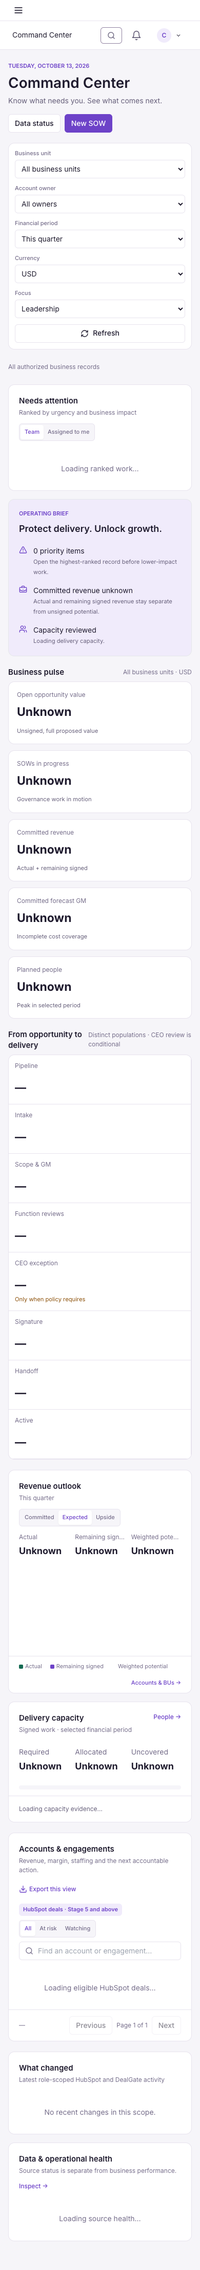
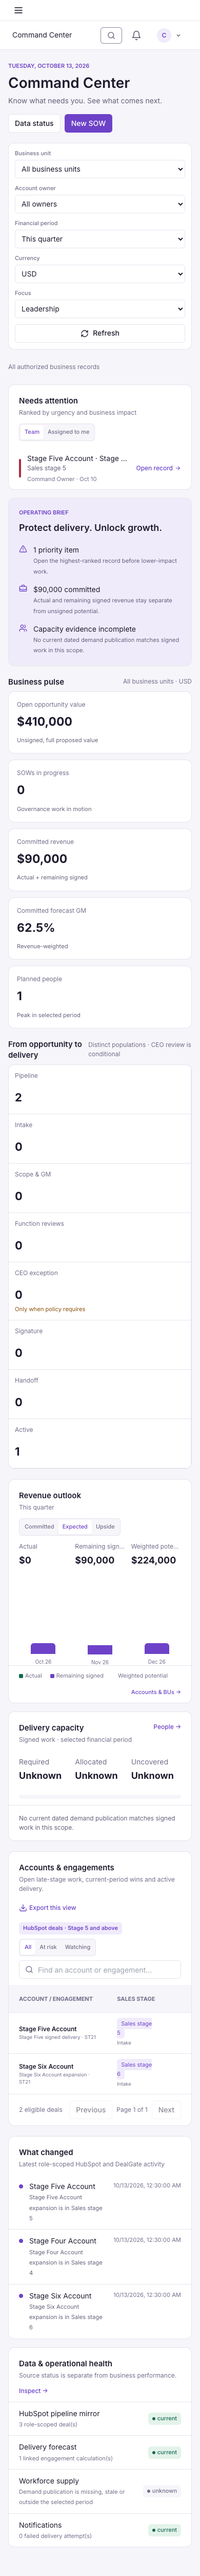
fix(command-center): exclude stale closed wins

diff --git a/web/src/pages/v2/CommandCenter.tsx b/web/src/pages/v2/CommandCenter.tsx
@@ -109,7 +109,7 @@ export function CommandCenterPage() {
     <div className="grid gap-4 xl:grid-cols-[minmax(0,1.55fr)_minmax(280px,1fr)]"><section className={panel} aria-labelledby="revenue-title"><PanelHeader id="revenue-title" title="Revenue outlook" note={period === "this_quarter" ? "This quarter" : "Next two quarters"} action={<Segment options={[["committed", "Committed"], ["expected", "Expected"], ["upside", "Upside"]]} value={scenario} onChange={(value) => setScenario(value as typeof scenario)} />}/><div className="grid grid-cols-3 gap-3 px-5 pb-4 text-secondary"><Summary label="Actual" value={money(overview?.revenue.actual ?? null, currency)} /><Summary label="Remaining signed" value={money(overview?.revenue.remaining_signed ?? null, currency)} /><Summary label={scenario === "upside" ? "Full potential" : "Weighted potential"} value={scenario === "committed" ? "Excluded" : money(scenario === "expected" ? overview?.revenue.potential_expected ?? null : overview?.revenue.potential_upside ?? null, currency)} /></div><div className="flex h-44 items-end gap-4 border-b border-divider px-5" role="img" aria-label="Revenue outlook by month">{(overview?.revenue.months ?? []).map((row) => { const actual = Number(row.actual), signed = Number(row.remaining_signed), potential = scenario === "committed" ? 0 : Number(scenario === "expected" ? row.potential_expected : row.potential_upside), total = actual + signed + potential; return <div key={row.month} className="flex h-full min-w-0 flex-1 flex-col justify-end"><div className="mx-auto flex w-full max-w-12 flex-col-reverse overflow-hidden rounded-t-control" style={{ height: `${Math.max(2, (total / maximumRevenue) * 100)}%` }}><span className="bg-success" style={{ height: `${(actual / Math.max(1, total)) * 100}%` }} /><span className="bg-primary" style={{ height: `${(signed / Math.max(1, total)) * 100}%` }} /><span className="bg-warning/70" style={{ height: `${(potential / Math.max(1, total)) * 100}%` }} /></div><span className="mt-2 truncate text-center text-[10px] text-text-muted">{monthLabel(row.month)}</span></div>; })}</div><div className="flex flex-wrap gap-4 px-5 py-3 text-[11px] text-text-muted"><Legend color="bg-success" label="Actual" /><Legend color="bg-primary" label="Remaining signed" /><Legend color="bg-warning/70" label={scenario === "upside" ? "Full potential" : "Weighted potential"} /><Link className="ml-auto font-medium text-primary" to="/forecast">Accounts & BUs →</Link></div></section>
       <CapacityPanel capacity={overview?.capacity ?? null} /></div>
 
-    <section className={panel} aria-labelledby="accounts-title"><PanelHeader id="accounts-title" title="Accounts & engagements" note="Revenue, margin, staffing and the next accountable action." action={<button className="inline-flex min-h-8 items-center gap-1 text-secondary font-medium text-primary" onClick={() => void downloadCommandAccounts(scope, search || undefined, health)}><Download className="h-4 w-4" /> Export this view</button>} /><div className="flex flex-wrap items-center gap-2 px-5 pb-3"><span className="rounded-control bg-primary-subtle px-2 py-1 text-[11px] font-semibold text-primary" data-testid="stage5-scope">HubSpot deals · Stage 5 and above</span><Segment options={[["all", "All"], ["at_risk", "At risk"], ["watching", "Watching"]]} value={health} onChange={(value) => setParam("health", value)} /><label className="relative min-w-56 flex-1"><Search className="pointer-events-none absolute left-3 top-2.5 h-4 w-4 text-text-muted" /><span className="sr-only">Find an account or engagement</span><input className="h-9 w-full rounded-control border border-border bg-surface pl-9 pr-3 text-body focus-visible:outline-focus" type="search" value={search} onChange={(event) => setParam("search", event.target.value)} placeholder="Find an account or engagement…" /></label></div>{accounts?.configuration_gaps.length ? <div className="mx-5 mb-3 rounded-control border border-warning/30 bg-warning-surface px-3 py-2 text-secondary text-warning">{accounts.configuration_gaps.join(" · ")}</div> : null}{accountsLoading ? <SectionState text="Loading eligible HubSpot deals…" /> : accountsError ? <SectionState text={`Could not load accounts: ${accountsError}`} /> : !accounts?.items.length ? <SectionState text="No Stage 5 or later HubSpot deals match these filters." /> : <AccountsTable rows={accounts.items} currency={currency} onSelect={setSelected} />}<div className="flex items-center justify-between border-t border-divider px-5 py-3 text-secondary text-text-muted"><span>{accounts ? `${accounts.total} eligible deal${accounts.total === 1 ? "" : "s"}` : "—"}</span><div className="flex items-center gap-2"><button className={button} disabled={pageNumber <= 1} onClick={() => setParam("page", String(pageNumber - 1))}>Previous</button><span>Page {pageNumber} of {Math.max(1, Math.ceil((accounts?.total ?? 0) / 25))}</span><button className={button} disabled={!accounts || pageNumber * 25 >= accounts.total} onClick={() => setParam("page", String(pageNumber + 1))}>Next</button></div></div></section>
+    <section className={panel} aria-labelledby="accounts-title"><PanelHeader id="accounts-title" title="Accounts & engagements" note="Open late-stage work, current-period wins and active delivery." action={<button className="inline-flex min-h-8 items-center gap-1 text-secondary font-medium text-primary" onClick={() => void downloadCommandAccounts(scope, search || undefined, health)}><Download className="h-4 w-4" /> Export this view</button>} /><div className="flex flex-wrap items-center gap-2 px-5 pb-3"><span className="rounded-control bg-primary-subtle px-2 py-1 text-[11px] font-semibold text-primary" data-testid="stage5-scope">HubSpot deals · Stage 5 and above</span><Segment options={[["all", "All"], ["at_risk", "At risk"], ["watching", "Watching"]]} value={health} onChange={(value) => setParam("health", value)} /><label className="relative min-w-56 flex-1"><Search className="pointer-events-none absolute left-3 top-2.5 h-4 w-4 text-text-muted" /><span className="sr-only">Find an account or engagement</span><input className="h-9 w-full rounded-control border border-border bg-surface pl-9 pr-3 text-body focus-visible:outline-focus" type="search" value={search} onChange={(event) => setParam("search", event.target.value)} placeholder="Find an account or engagement…" /></label></div>{accounts?.configuration_gaps.length ? <div className="mx-5 mb-3 rounded-control border border-warning/30 bg-warning-surface px-3 py-2 text-secondary text-warning">{accounts.configuration_gaps.join(" · ")}</div> : null}{accountsLoading ? <SectionState text="Loading eligible HubSpot deals…" /> : accountsError ? <SectionState text={`Could not load accounts: ${accountsError}`} /> : !accounts?.items.length ? <SectionState text="No current Stage 5 or later HubSpot deals match these filters." /> : <AccountsTable rows={accounts.items} currency={currency} onSelect={setSelected} />}<div className="flex items-center justify-between border-t border-divider px-5 py-3 text-secondary text-text-muted"><span>{accounts ? `${accounts.total} eligible deal${accounts.total === 1 ? "" : "s"}` : "—"}</span><div className="flex items-center gap-2"><button className={button} disabled={pageNumber <= 1} onClick={() => setParam("page", String(pageNumber - 1))}>Previous</button><span>Page {pageNumber} of {Math.max(1, Math.ceil((accounts?.total ?? 0) / 25))}</span><button className={button} disabled={!accounts || pageNumber * 25 >= accounts.total} onClick={() => setParam("page", String(pageNumber + 1))}>Next</button></div></div></section>
 
     <div className="grid gap-4 xl:grid-cols-2"><section className={panel}><PanelHeader title="What changed" note="Latest role-scoped HubSpot and DealGate activity" />{overview?.recent_changes.length ? <div className="divide-y divide-divider">{overview.recent_changes.map((event) => <Link key={event.id} to={event.href} state={{ from: returnTo }} className="grid grid-cols-[8px_1fr_auto] gap-3 px-5 py-3 hover:bg-canvas"><span className="mt-1.5 h-2 w-2 rounded-full bg-primary" /><span><strong className="block text-body">{event.account}</strong><small className="text-text-secondary">{event.text}</small></span><small className="text-text-muted">{event.at ? new Date(event.at).toLocaleString() : "Time unknown"}</small></Link>)}</div> : <SectionState text="No recent changes in this scope." />}</section><section className={panel}><PanelHeader title="Data & operational health" note="Source status is separate from business performance." action={<Link className="text-secondary font-medium text-primary" to="/settings/system-health">Inspect →</Link>} />{overview?.sources.map((source) => <div key={source.name} className="flex items-center justify-between gap-4 border-t border-divider px-5 py-3"><span><strong className="block text-body">{source.name}</strong><small className="text-text-muted">{source.detail}</small></span><span className={cn("inline-flex items-center gap-1 rounded-control px-2 py-1 text-[11px] font-medium", source.status === "current" ? "bg-success-surface text-success" : source.status === "attention" ? "bg-warning-surface text-warning" : "bg-canvas text-text-muted")}><span className="h-1.5 w-1.5 rounded-full bg-current" />{source.status}</span></div>) ?? <SectionState text="Loading source health…" />}</section></div>
     {selected ? <AccountDrawer row={selected} currency={currency} returnTo={returnTo} onClose={() => setSelected(null)} /> : null}

diff --git a/tests/e2e/local/command-center-redesign.spec.ts b/tests/e2e/local/command-center-redesign.spec.ts
@@ -44,10 +44,14 @@ test("Stage 5 scope, financial separation, filters and drawer work together", as
   await expect(page.getByTestId("stage5-scope")).toHaveText(
     "HubSpot deals · Stage 5 and above",
   );
+  await expect(
+    page.getByText("Open late-stage work, current-period wins and active delivery."),
+  ).toBeVisible();
   const table = page.getByRole("table");
   await expect(table).toContainText("Stage Five Account");
   await expect(table).toContainText("Stage Six Account");
   await expect(table).not.toContainText("Stage Four Account");
+  await expect(table).not.toContainText("Historical Won Account");
 
   const outlook = page.getByRole("region", { name: "Revenue outlook" });
   await expect(outlook).toContainText("$90,000");

diff --git a/web/src/__tests__/v2/CommandCenter.test.tsx b/web/src/__tests__/v2/CommandCenter.test.tsx
@@ -57,6 +57,7 @@ describe("Command Center redesign", () => {
     expect(await screen.findByText("Acme", { selector: "button" })).toBeInTheDocument();
     expect(screen.getAllByText("Unknown").length).toBeGreaterThan(0);
     expect(screen.getByTestId("stage5-scope")).toHaveTextContent("HubSpot deals · Stage 5 and above");
+    expect(screen.getByText("Open late-stage work, current-period wins and active delivery.")).toBeVisible();
   });
 
   it("reset removes user filters but preserves the mandatory Stage 5 scope", async () => {

diff --git a/api/app/services/command_center.py b/api/app/services/command_center.py
@@ -299,6 +299,8 @@ async def list_command_accounts(
     filters = filters or CommandAccountFilters()
     page = max(1, filters.page)
     page_size = min(100, max(1, filters.page_size))
+    months = _period_months(filters.period)
+    period_start, period_end = _period_bounds(months)
     scoped = replace(scope, include_closed=True, open_closed="any")
     allowed_ids = await matching_opportunity_ids(session, scoped)
     gaps = await _configuration_gaps(session)
@@ -306,6 +308,17 @@ async def list_command_accounts(
         return CommandAccountsPage((), 0, page, page_size, STAGE5_SCOPE_LABEL, gaps)
 
     thresholds = _stage5_thresholds()
+    active_period_engagement = (
+        select(Engagement.id)
+        .where(
+            Engagement.opportunity_id == Opportunity.id,
+            Engagement.closed.is_(False),
+            Engagement.start <= period_end,
+            Engagement.end >= period_start,
+        )
+        .correlate(Opportunity)
+        .exists()
+    )
     stmt = (
         select(Opportunity, Client, User, HubspotStage)
         .join(Client, Client.id == Opportunity.client_id, isouter=True)
@@ -324,6 +337,11 @@ async def list_command_accounts(
             Opportunity.hubspot_deal_id.is_not(None),
             Opportunity.archived_at.is_(None),
             Opportunity.is_closed_lost.is_(False),
+            or_(
+                Opportunity.is_closed_won.is_(False),
+                Opportunity.close_date.between(period_start, period_end),
+                active_period_engagement,
+            ),
             HubspotStage.archived.is_(False),
             HubspotStage.display_order >= thresholds.c.display_order,
         )
@@ -377,6 +395,8 @@ async def list_command_accounts(
                 .where(
                     Engagement.opportunity_id.in_(opportunity_ids),
                     Engagement.closed.is_(False),
+                    Engagement.start <= period_end,
+                    Engagement.end >= period_start,
                 )
                 .order_by(Engagement.created_at.desc(), Engagement.id.desc())
             )
@@ -389,7 +409,6 @@ async def list_command_accounts(
         if engagement.opportunity_id is not None:
             engagement_by_opportunity.setdefault(engagement.opportunity_id, engagement)
 
-    months = _period_months(filters.period)
     financials: dict[uuid.UUID, dict] = {}
     for engagement in engagement_by_opportunity.values():
         financials[engagement.id] = await _engagement_financials(
@@ -670,6 +689,7 @@ async def build_command_overview(
     """Build the non-table sections from canonical pipeline and forecast data."""
 
     months = _period_months(period)
+    period_start, period_end = _period_bounds(months)
     scoped = replace(scope, include_closed=True, open_closed="any")
     opportunities_page = await list_opportunities(
         session, filters=scoped, page=1, page_size=10_000
@@ -684,6 +704,8 @@ async def build_command_overview(
                 .where(
                     Engagement.opportunity_id.in_(opportunity_ids),
                     Engagement.closed.is_(False),
+                    Engagement.start <= period_end,
+                    Engagement.end >= period_start,
                 )
                 .order_by(Engagement.created_at.desc(), Engagement.id.desc())
             )
@@ -772,6 +794,11 @@ async def build_command_overview(
             or row.currency != currency
         ):
             continue
+        if row.close_date is None:
+            potential_complete = False
+            continue
+        if not period_start <= row.close_date <= period_end:
+            continue
         if row.amount is None:
             potential_complete = False
             continue
@@ -781,7 +808,7 @@ async def build_command_overview(
             potential_complete = False
         else:
             potential_expected += row.amount * probability
-        close_month = row.close_date.strftime("%Y-%m") if row.close_date else None
+        close_month = row.close_date.strftime("%Y-%m")
         if close_month in monthly:
             monthly[close_month]["potential_upside"] += row.amount
             if probability is not None:
@@ -805,6 +832,8 @@ async def build_command_overview(
     for row in opportunities:
         if row.opportunity_id in first_engagement_by_opportunity:
             lifecycle["active"] += 1
+            continue
+        if row.is_closed_won or row.is_closed_lost:
             continue
         state = row.sow_approval_state
         if row.sow_count == 0:
@@ -843,6 +872,13 @@ async def build_command_overview(
     }
     actions = []
     for row in opportunities:
+        if row.is_closed_lost:
+            continue
+        if row.is_closed_won:
+            if row.opportunity_id in linked_opportunity_ids:
+                continue
+            if row.close_date is None or not period_start <= row.close_date <= period_end:
+                continue
         flags = [flag for flag in row.attention_flags if not focus_flags or flag in focus_flags]
         if not flags and not row.next_action_open_count:
             continue
@@ -881,6 +917,20 @@ async def build_command_overview(
         (row.hubspot_last_activity_at for row in opportunities if row.hubspot_last_activity_at),
         default=None,
     )
+    recent_opportunity_ids = {
+        row.opportunity_id
+        for row in opportunities
+        if (
+            not row.is_closed_won
+            and not row.is_closed_lost
+            or row.opportunity_id in linked_opportunity_ids
+            or (
+                row.is_closed_won
+                and row.close_date is not None
+                and period_start <= row.close_date <= period_end
+            )
+        )
+    }
     recent = sorted(
         (
             {
@@ -893,7 +943,8 @@ async def build_command_overview(
                 "href": f"/deals/{row.opportunity_id}",
             }
             for row in opportunities
-            if row.latest_comment_at or row.hubspot_last_activity_at
+            if row.opportunity_id in recent_opportunity_ids
+            and (row.latest_comment_at or row.hubspot_last_activity_at)
         ),
         key=lambda item: item["at"] or "",
         reverse=True,

diff --git a/api/tests/test_command_center_accounts.py b/api/tests/test_command_center_accounts.py
@@ -61,6 +61,7 @@ async def _deal(
     source: str = "hubspot",
     won: bool = False,
     lost: bool = False,
+    close_date: date | None = None,
 ) -> Opportunity:
     row = Opportunity(
         source=source,
@@ -75,6 +76,7 @@ async def _deal(
         is_closed_won=won,
         is_closed_lost=lost,
         amount=Decimal("125000"),
+        close_date=close_date,
         currency="USD",
         governance_status="Signature",
         business_unit_value="ST21",
@@ -155,7 +157,16 @@ async def test_stage5_is_resolved_per_pipeline_and_not_from_stage_ids(session):
     b = await _pipeline(session, "beta")
     await _deal(session, client=client, owner=owner, pipeline="alpha", stage=a[3], name="Stage four")
     fifth = await _deal(session, client=client, owner=owner, pipeline="alpha", stage=a[4], name="Stage five")
-    later = await _deal(session, client=client, owner=owner, pipeline="beta", stage=b[5], name="Later won", won=True)
+    later = await _deal(
+        session,
+        client=client,
+        owner=owner,
+        pipeline="beta",
+        stage=b[5],
+        name="Later won",
+        won=True,
+        close_date=date.today(),
+    )
     await session.commit()
 
     page = await list_command_accounts(session, scope=PipelineFilters(include_closed=True))
@@ -213,7 +224,16 @@ async def test_search_pagination_and_csv_share_the_eligible_population(session):
     await session.flush()
     stages = await _pipeline(session, "search")
     await _deal(session, client=client, owner=owner, pipeline="search", stage=stages[4], name="Alpha engagement")
-    await _deal(session, client=client, owner=owner, pipeline="search", stage=stages[5], name="Beta engagement", won=True)
+    await _deal(
+        session,
+        client=client,
+        owner=owner,
+        pipeline="search",
+        stage=stages[5],
+        name="Beta engagement",
+        won=True,
+        close_date=date.today(),
+    )
     await _deal(session, client=client, owner=owner, pipeline="search", stage=stages[3], name="Hidden engagement")
     await session.commit()
 
@@ -231,6 +251,127 @@ async def test_search_pagination_and_csv_share_the_eligible_population(session):
     assert "Beta engagement" in csv_text
     assert "Hidden engagement" not in csv_text
     assert "Period revenue,Forecast GM,Assigned FTE,Required FTE,Financial status" in csv_text
+
+
+@pytest.mark.asyncio
+async def test_historical_closed_won_requires_current_delivery_context(session):
+    owner = User(email="closed@example.test", name="Closed Owner", groups=[])
+    client = Client(name="Closed account", hubspot_company_id="company-closed")
+    session.add_all([owner, client])
+    await session.flush()
+    stages = await _pipeline(session, "closed")
+    historical = await _deal(
+        session,
+        client=client,
+        owner=owner,
+        pipeline="closed",
+        stage=stages[5],
+        name="Historical win without current work",
+        won=True,
+        close_date=date(2025, 10, 2),
+    )
+    current = await _deal(
+        session,
+        client=client,
+        owner=owner,
+        pipeline="closed",
+        stage=stages[5],
+        name="Current-period win",
+        won=True,
+        close_date=date.today(),
+    )
+    delivering = await _deal(
+        session,
+        client=client,
+        owner=owner,
+        pipeline="closed",
+        stage=stages[5],
+        name="Historical win with current delivery",
+        won=True,
+        close_date=date(2025, 9, 1),
+    )
+    engagement = await _fixed_fee_engagement(
+        session,
+        client=client,
+        owner=owner,
+        opportunity=delivering,
+        cost_per_hour=Decimal("50"),
+    )
+    await session.commit()
+
+    page = await list_command_accounts(
+        session, scope=PipelineFilters(include_closed=True)
+    )
+
+    ids = {row.opportunity_id for row in page.items}
+    assert historical.id not in ids
+    assert ids == {current.id, delivering.id}
+    delivered_row = next(row for row in page.items if row.opportunity_id == delivering.id)
+    assert delivered_row.engagement_id == engagement.id
+
+
+@pytest.mark.asyncio
+async def test_overview_excludes_historical_wins_and_period_scopes_potential(session):
+    owner = User(email="period@example.test", name="Period Owner", groups=[])
+    client = Client(name="Period account", hubspot_company_id="company-period")
+    session.add_all([owner, client])
+    await session.flush()
+    stages = await _pipeline(session, "period")
+    historical_win = await _deal(
+        session,
+        client=client,
+        owner=owner,
+        pipeline="period",
+        stage=stages[5],
+        name="2025 closed win",
+        won=True,
+        close_date=date(2025, 10, 2),
+    )
+    current_win = await _deal(
+        session,
+        client=client,
+        owner=owner,
+        pipeline="period",
+        stage=stages[5],
+        name="Current closed win",
+        won=True,
+        close_date=date.today(),
+    )
+    current_open = await _deal(
+        session,
+        client=client,
+        owner=owner,
+        pipeline="period",
+        stage=stages[4],
+        name="Current open deal",
+        close_date=date.today(),
+    )
+    old_open = await _deal(
+        session,
+        client=client,
+        owner=owner,
+        pipeline="period",
+        stage=stages[4],
+        name="Overdue open deal",
+        close_date=date(2025, 8, 1),
+    )
+    await session.commit()
+
+    overview = await build_command_overview(
+        session,
+        scope=PipelineFilters(include_closed=True),
+        period="this_quarter",
+        currency="USD",
+    )
+
+    assert overview["lifecycle"]["pipeline"] == 2
+    assert Decimal(overview["revenue"]["potential_upside"]) == Decimal("125000")
+    assert Decimal(overview["revenue"]["potential_expected"]) == Decimal("62500.0")
+    action_ids = {row["id"] for row in overview["actions"]}
+    assert str(current_win.id) in action_ids
+    assert str(historical_win.id) not in action_ids
+    assert str(current_open.id) not in action_ids
+    assert str(old_open.id) not in action_ids
 
 
 @pytest.mark.asyncio

diff --git a/scripts/command_center_fixture.py b/scripts/command_center_fixture.py
@@ -157,11 +157,12 @@ async def seed(url) -> dict[str, object]:
 
             opportunities: list[Opportunity] = []
             definitions = (
-                ("Stage Four Account", 4, "120000", "Discovery review"),
-                ("Stage Five Account", 5, "90000", "Confirm delivery start"),
-                ("Stage Six Account", 6, "200000", "Complete commercial review"),
+                ("Stage Four Account", 4, "120000", "Discovery review", date(2026, 11, 4), False),
+                ("Stage Five Account", 5, "90000", "Confirm delivery start", date(2026, 11, 5), False),
+                ("Stage Six Account", 6, "200000", "Complete commercial review", date(2026, 11, 6), False),
+                ("Historical Won Account", 7, "78736", "Create delivery release", date(2025, 10, 2), True),
             )
-            for label, stage_number, amount, next_action in definitions:
+            for label, stage_number, amount, next_action, close_date, is_closed_won in definitions:
                 key = label.lower().replace(" ", "-")
                 client = Client(
                     id=uuid.uuid5(namespace, f"client:{key}"),
@@ -185,13 +186,13 @@ async def seed(url) -> dict[str, object]:
                     next_client_action=next_action,
                     next_client_date=date(2026, 10, 12 + stage_number),
                     amount=Decimal(amount),
-                    close_date=date(2026, 11, stage_number),
+                    close_date=close_date,
                     stage_label=stages[stage_number - 1].label,
                     name=f"{label} expansion",
                     hubspot_pipeline_id=pipeline.id,
                     hubspot_stage_id=stages[stage_number - 1].id,
                     stage_order=stage_number * 10,
-                    is_closed_won=False,
+                    is_closed_won=is_closed_won,
                     is_closed_lost=False,
                     currency="USD",
                     hubspot_last_seen_at=now,
